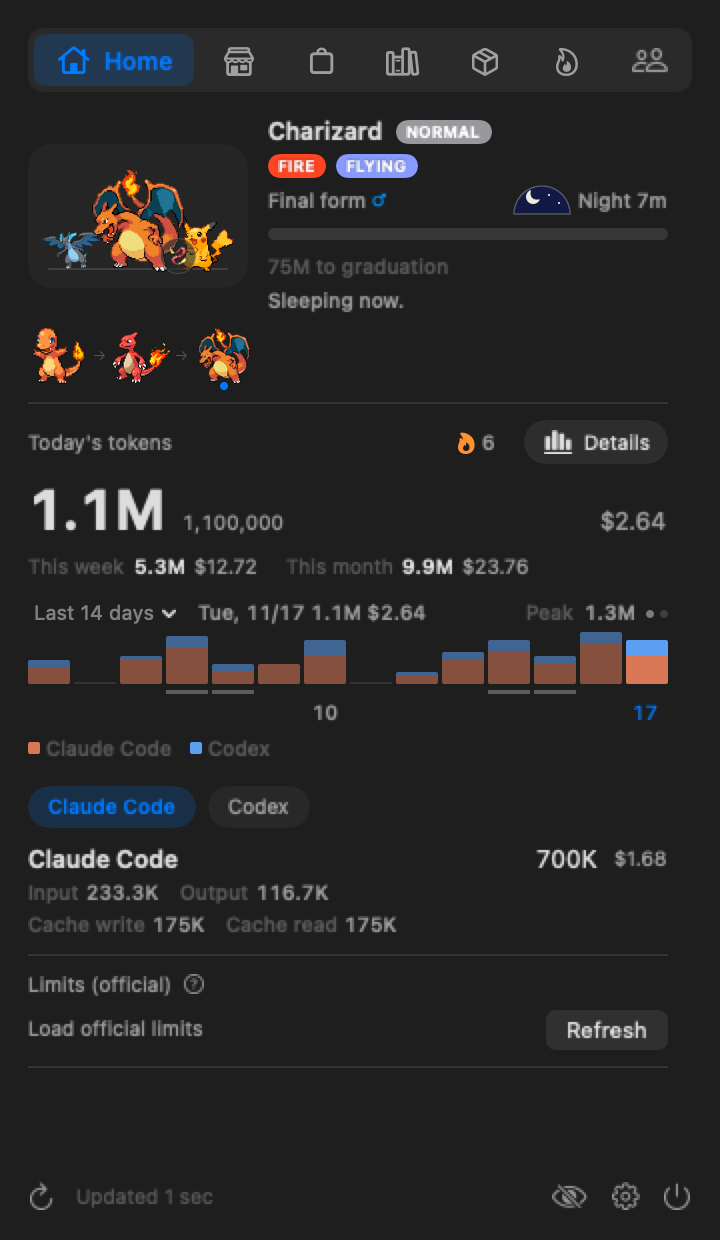
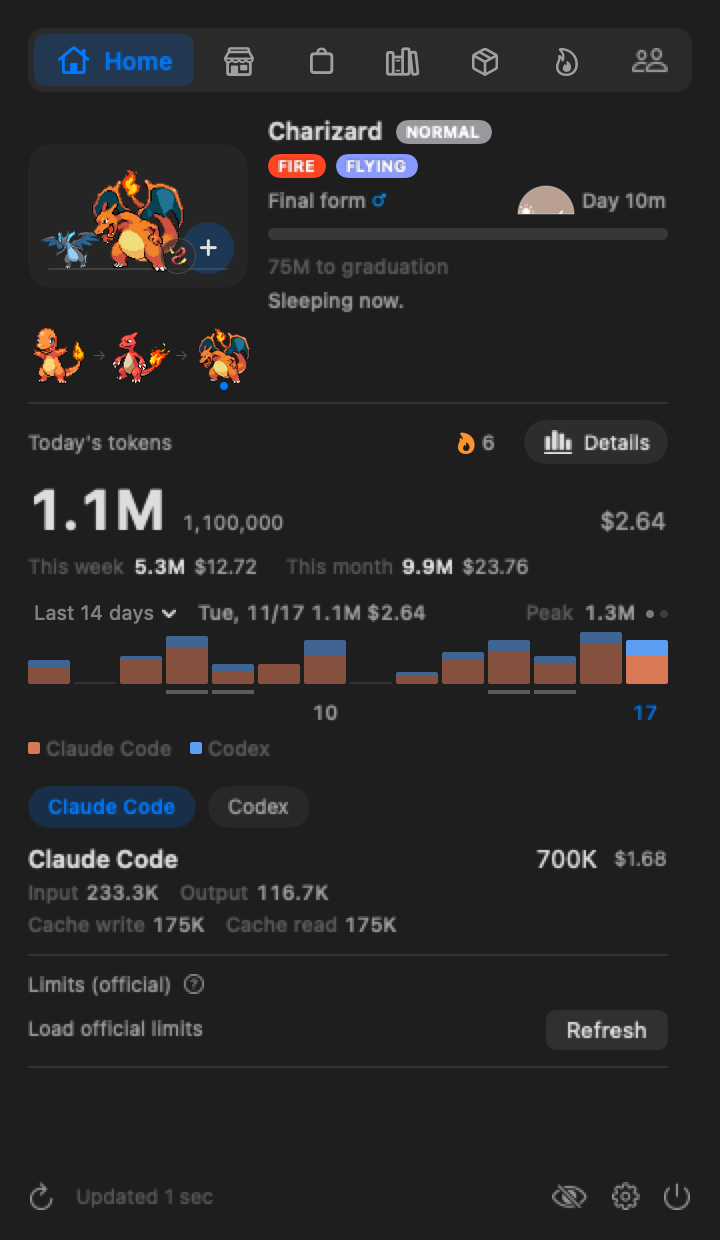
docs: show the add-friend slot in the README home image
The Home sample stands with one friend so the add slot is drawn; the other images keep two.

Changed region(s): [[0.7028, 0.1226, 0.9167, 0.1839], [0.2444, 0.1532, 0.3361, 0.2452], [0.0611, 0.1839, 0.1222, 0.2145]]

diff --git a/Tests/PokeTokenBarTests/ReadmeScreenshotTests.swift b/Tests/PokeTokenBarTests/ReadmeScreenshotTests.swift
@@ -64,7 +64,9 @@ final class ReadmeScreenshotTests: XCTestCase {
                     .environment(uploader).environment(entry)
             }
             if language == .en {
+                store.removeFriend(entryID: BoxDexFixture.pikachuID)
                 try await shot(popover(home) { $0.tab = .home }, "screenshot-home", in: dir, height: nil)
+                XCTAssertTrue(store.addFriend(entryID: BoxDexFixture.pikachuID))
                 try await shot(await floatingFriends(usage: usage, store: store, sprites: scratch), "screenshot-floating-friends",
                                in: dir, height: nil)
             }
